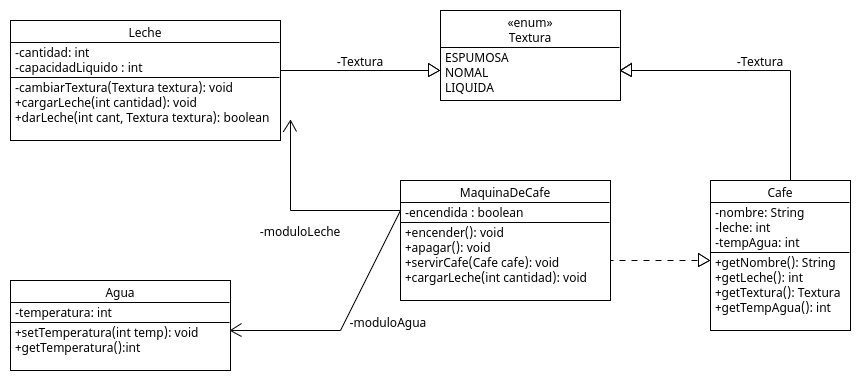
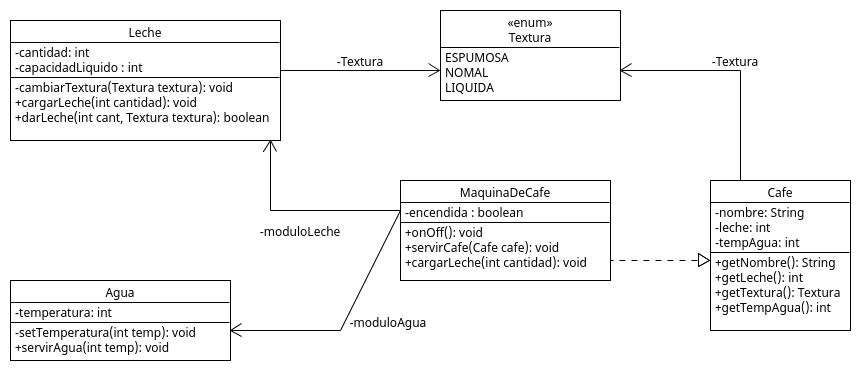
correcciones

diff --git a/Ejercicio-14/src/javaapplication1/MaquinaDeCafe.java b/Ejercicio-14/src/javaapplication1/MaquinaDeCafe.java
@@ -20,9 +20,7 @@ public class MaquinaDeCafe {
     }
     
     public void cargarLeche(int cantidad) {
-        if(cantidad > 0) {
-            leche.cargarLeche(cantidad);
-        }
+        leche.cargarLeche(cantidad);
     }
     
     
@@ -35,14 +33,11 @@ public class MaquinaDeCafe {
 
             if(leche.darLeche(cantLeche, textura)) {
 
-                if(agua.getTemperatura() != tempAgua) {
-                    agua.setTemperatura(tempAgua);
-                }
+                agua.servirAgua(tempAgua);
 
                 String nombre = cafe.getNombre();
 
                 System.out.println("El café " + nombre + " se ha servido correctamente.\n");
-
             } else {
                 System.out.println("ERROR: no hay sufuciente leche.\n");
             } 
@@ -52,10 +47,7 @@ public class MaquinaDeCafe {
         
     }
 
-    public void setEncendida(boolean encendida) {
-        this.encendida = encendida;
-    }
-    
-    
-    
+    public void onOff() {
+        this.encendida = !this.encendida;
+    } 
 }

diff --git a/Ejercicio-14/src/javaapplication1/ModuloLeche.java b/Ejercicio-14/src/javaapplication1/ModuloLeche.java
@@ -23,15 +23,20 @@ public class ModuloLeche {
     }
     
     public void cargarLeche(int cantidad) {
-        int nuevaCant = this.cantidad + cantidad;
-        
-        if(nuevaCant <= this.capacidadLiquido) {
-            this.cantidad = nuevaCant;
+        if(cantidad > 0) {
+            int nuevaCant = this.cantidad + cantidad;
+            
+            if(nuevaCant <= this.capacidadLiquido) {
+                this.cantidad = nuevaCant;
+            } else {
+                this.cantidad = this.capacidadLiquido;
+            }
+
+            System.out.println("Leche cargada, cantidad de leche actual: " + this.cantidad + "\n");
         } else {
-            this.cantidad = this.capacidadLiquido;
+            System.out.println("Error: cantidad de leche invalida");
         }
         
-        System.out.println("Leche cargada, cantidad de leche actual: " + this.cantidad + "\n");
     }
     
     public boolean darLeche(int cantidad, Textura textura) {

diff --git a/Ejercicio-14/src/javaapplication1/Ej_14.java b/Ejercicio-14/src/javaapplication1/Ej_14.java
@@ -23,7 +23,7 @@ public class Ej_14 {
         Cafe expresso = new Cafe("expresso", 0, Textura.ESPUMOSA, 70);
         Cafe lagrima = new Cafe("lagrima", 3, Textura.LIQUIDA, 70);
        
-        maquina.setEncendida(true);
+        maquina.onOff();
         
         maquina.servirCafe(latte);
         maquina.servirCafe(latte);
@@ -34,7 +34,7 @@ public class Ej_14 {
         
         maquina.servirCafe(lagrima);
 
-        maquina.setEncendida(false);
+        maquina.onOff();
 
     }
     

diff --git a/Ejercicio-14/src/javaapplication1/ModuloAgua.java b/Ejercicio-14/src/javaapplication1/ModuloAgua.java
@@ -15,12 +15,14 @@ public class ModuloAgua {
         this.temperatura = 16; //temperatura ambiente
     }
 
-    public void setTemperatura(int temperatura) {
+    private void setTemperatura(int temperatura) {
         this.temperatura = temperatura;
     }
-
-    public int getTemperatura() {
-        return temperatura;
+    
+    public void servirAgua(int temp) {
+        if(temp != this.temperatura) {
+            this.setTemperatura(temp);
+        }
     }
     
     

diff --git a/Ejercicio-14/src/javaapplication1/Textura.java b/Ejercicio-14/src/javaapplication1/Textura.java
@@ -6,6 +6,6 @@ package javaapplication1;
 
 /**
  *
- * @author Alumno
+ * @author ulyses456
  */
 enum Textura { ESPUMOSA, NORMAL, LIQUIDA }
